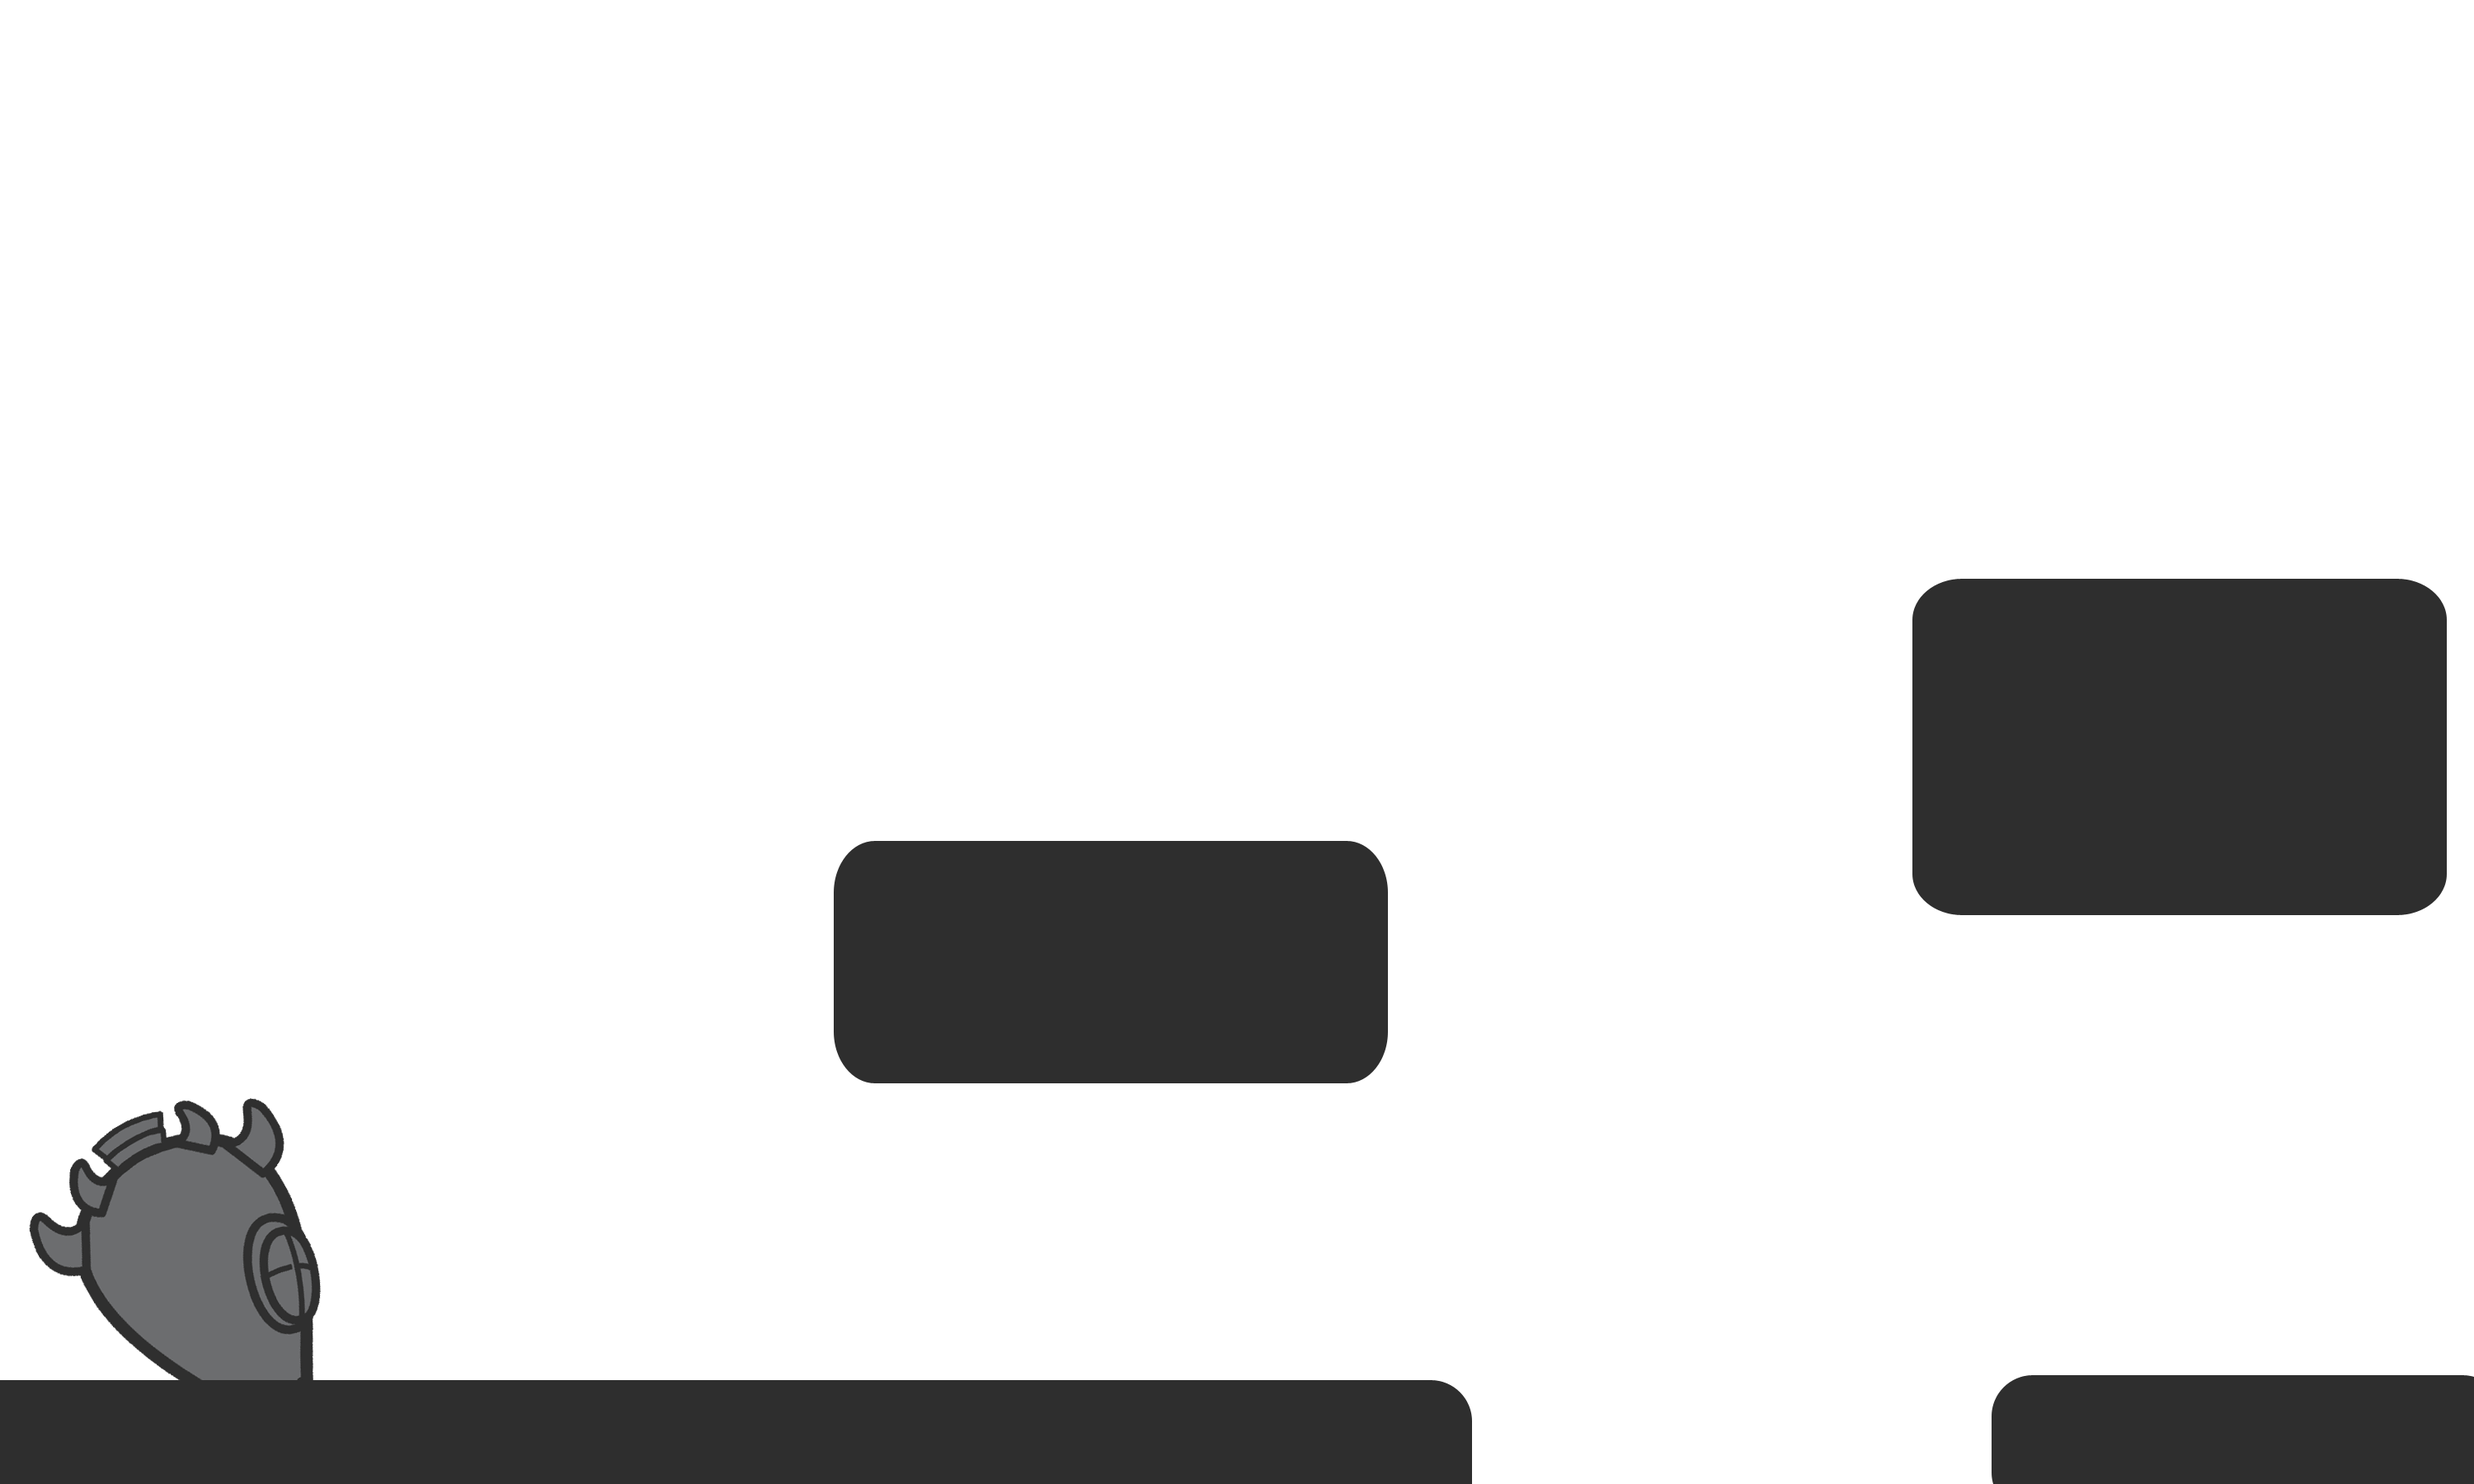
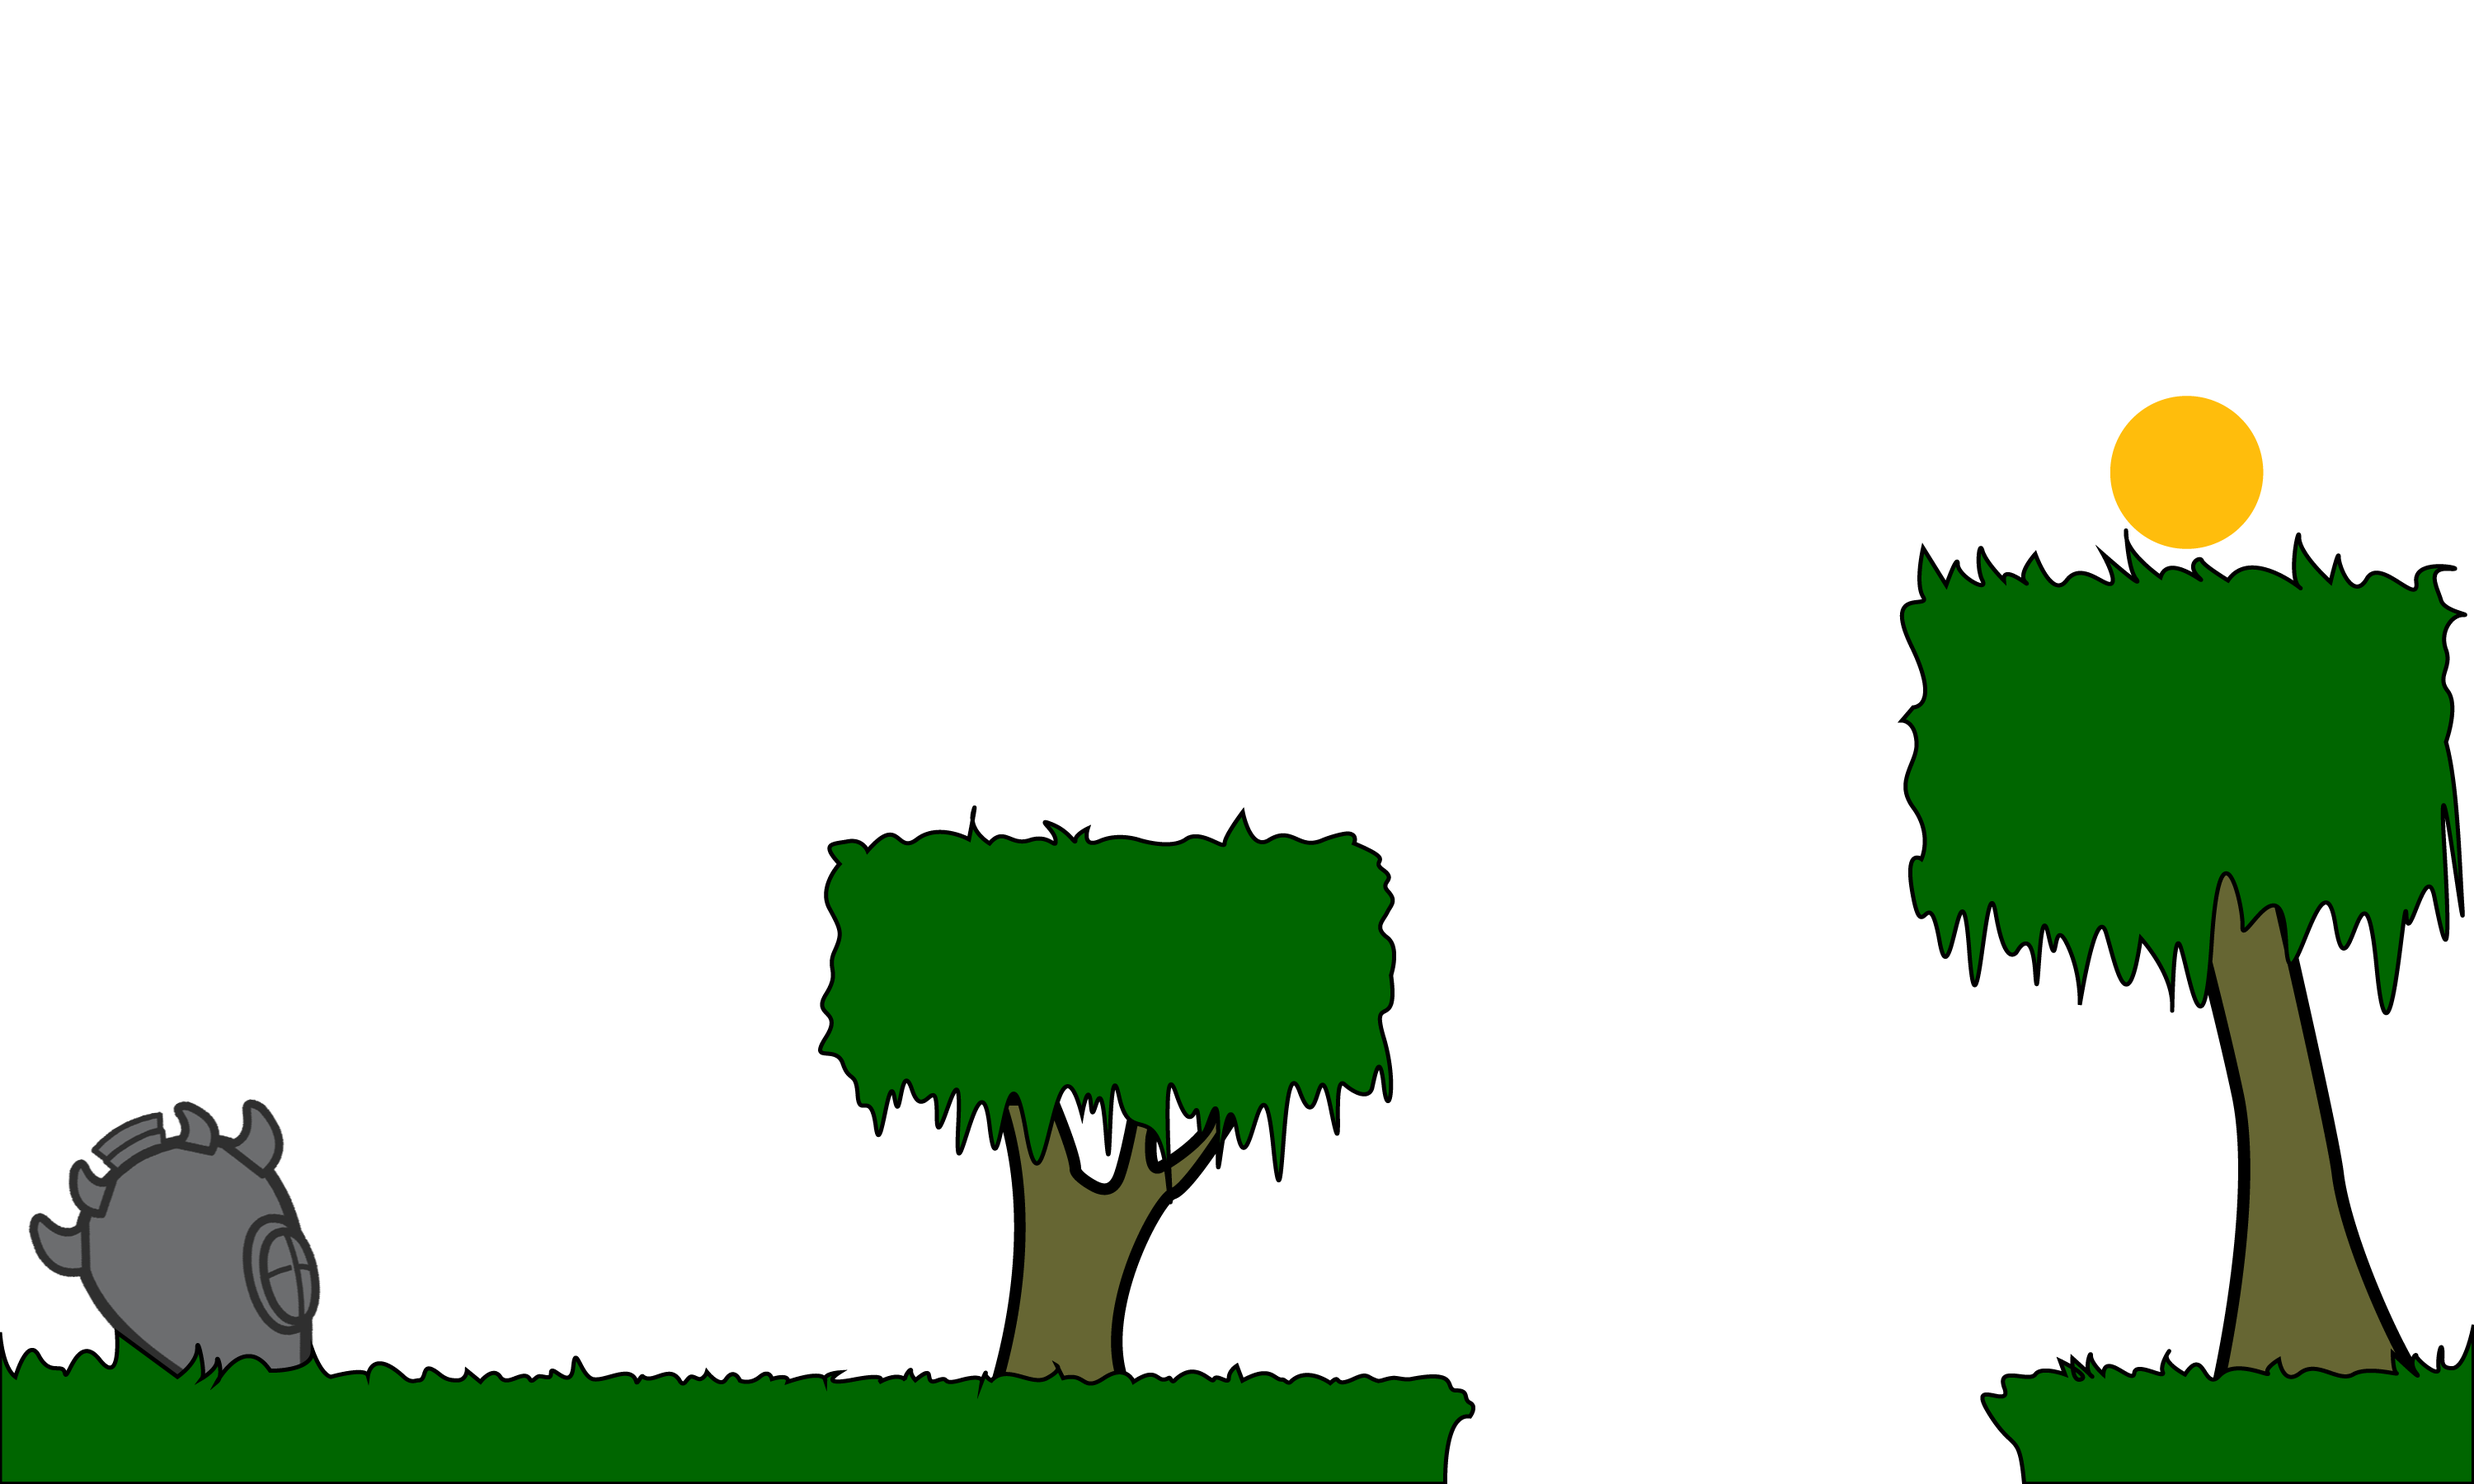
Working level 1
Physics, user input, map creations, instructions, win/loss all in place.

Changed region(s): [[0.0, 0.56, 0.62, 1.0], [0.744, 0.2489, 1.0, 1.0], [0.062, 0.7467, 0.093, 0.7778]]

diff --git a/js/functions.js b/js/functions.js
@@ -1,15 +1,25 @@
+//****************************************************************************************//
+//  Input control   //
+//****************************************************************************************//
+
+//  Create an array to hold keycodes
 var map = {68: false, 65: false, 87: false};
+
+//  Set down keys to true;
 $(document).keydown(function(e) {
     if (e.keyCode in map) {
         map[e.keyCode] = true;
         userInput = false;
-    }
+    } //  Reset keys on keyUp.
 }).keyup(function(e) {
     if (e.keyCode in map) {
         map[e.keyCode] = false;
     }
 });
 
+//****************************************************************************************//
+//  Movement functions   //
+//****************************************************************************************//
 
 
  function horizontal(speed){
@@ -21,30 +31,32 @@ $(document).keydown(function(e) {
             // If the map is past the left edge, move the map to the left edge, and move the player instead.
             if(backPositionX > 0){
                 backPositionX = 0;
-                movePlayer(speed);
+                movePlayer('horizontal',speed);
             }
             // If the map is past the right edge, move the map to the right edge, and move the player instead.
             if(backPositionX < screenWidth - backWidth){
                 backPositionX = screenWidth - backWidth;
-                playerPositionX -= speed;
+                movePlayer('horizontal',speed);
             }
         //  Otherwise, move the player.
         } else{
             movePlayer('horizontal',speed);
         }
+    } else{
+        movePlayer('horizontal',speed);
     }
     updated = true;
  }
 
  function movePlayer(direction,speed){
     if (direction == 'horizontal'){
-        //  If the player is not past the left efge and not past the right edge, move the player.
+        //  If the player is not past the left edge and not past the right edge, move the player.
         if (playerPositionX >= 0 && playerPositionX <= screenWidth - 60){
             playerPositionX -= speed;
         }
     }
      if (direction == 'vertical'){
-        //  If the player is not past the left efge and not past the right edge, move the player.
+        //  If the player is not past the left edge and not past the right edge, move the player.
         if (playerPositionY >= 0 && playerPositionY <= screenHeight){
             playerPositionY -= speed;
 
@@ -63,6 +75,7 @@ $(document).keydown(function(e) {
  function collisionTest(identifier){
     //  Reset collision to default false.
     collision = false;
+    collisionTop = false;
     //  Iterate through platforms, setting their values to be used for collisionTesting
     for(i = 0; i < obstacleNumber; i++){
         xVal=platforms[i].xVal;
@@ -76,6 +89,10 @@ $(document).keydown(function(e) {
         //  Test for collisions. If true, set collision to true.
         if (playerPositionY >= yVal-2 && playerPositionY <= yVal2 + 60 && overallPositionX >= xVal - 60 && overallPositionX <= xVal2){
             collision = true;
+            //Check to see if the collision is with the top border.
+            if (playerPositionY - 60 < yVal){
+                collisionTop = true;
+            }
             //  If collided platform is the goal, win the game.
             if (platforms[i].type=="goal"){
                 alert('TaDa!');
@@ -84,17 +101,83 @@ $(document).keydown(function(e) {
         }
 
     }
-    //  If there is no collision, gravity sets in.
-    if (collision == false){
+
+    if (playerPositionY > screenHeight){
+        alert('Womp Womp Womp');
+        window.location="index.html";
+    }
+
+    //  If there is no collision with the top border, gravity sets in.
+    if (collisionTop == false && jumping == 0){
         gravity();
+    } 
+    //  Otherwise, reset gravityVal
+    else{
+        gravityVal = 1;
     }
  }
 
+//****************************************************************************************//
+//  Physics   //
+//****************************************************************************************//
+
+
  function gravity(){
-    playerPositionY++;
+    //  Gravitational acceleration
+    gravityVal += gravityChange;
+    //  Gravity acts on player.
+    playerPositionY += gravityVal;
     updated = true;
  }
 
  function jump(){
-    movePlayer('vertical',3);
+    //  If there's a jump in progress, the player goes up.
+    if (jumping != 0){
+    // Put player in front of front layer.
+    $('.front').css('z-index',0);
+    movePlayer('vertical',jumpVal); 
+    jumping++; 
+        //  Reset jump variable when the jump is finished.
+        if (jumping == jumpLength){
+            jumping = 0;
+        }     
+        updated = true
+    } else{
+        //  Put player behind front layer if landed.
+        if (collisionTop == true){
+            $('.front').css('z-index',5);
+        }
+    }
  }
+
+//****************************************************************************************//
+//  Instructions   //
+//****************************************************************************************//
+
+
+function instructions(){
+    if (instructionNumber == 0 && level == 1){
+        $('#instructions').delay(500).fadeIn(500);
+        instructionNumber++
+    }
+
+    if (map[68] == true || map[65] == true){
+        if (level == 1 && instructionNumber == 1){
+            changeInstruction('<h1>Use <span class="key">W</span> to jump onto platforms.</h1>');
+        }    
+    }
+    if (map[87] == true){
+        if (level == 1 && instructionNumber == 2){
+            changeInstruction('<h1>Move to the <img src="imgs/goal.png" id="goalText"/> to complete the level.</h1>');
+            $("#instructions").delay(3000).fadeOut(1000);
+        }    
+    }
+}
+
+function changeInstruction(message){
+            $('#instructions').delay(500).fadeOut(500).delay(500).fadeIn(500);
+            window.setTimeout(function () {
+                $("#instructions").html(message);
+            }, 1000);
+            instructionNumber ++;
+}

diff --git a/js/setup.js b/js/setup.js
@@ -8,11 +8,11 @@ var obstacleNumber = 0;
 
 i = 0;
 
-//	Positioning vars
+
 $(function(){
+	//	Positioning vars
 	backPositionX = 0;
 	backPositionY = 0;
-
 
 	playerPositionX = 300;
 	playerPositionY = 560;
@@ -22,9 +22,21 @@ $(function(){
 	userInput = false;
 	updated = true;
 
-	backWidth = $("#currentBG").width();
+	backWidth = $(".currentBG").width();
 	screenWidth = $("#screen").width();
 	screenHeight = $("#screen").height();
+
+	//	Character status vars
+	playerSpeed = 3;
+
+	jumping = 0;
+	jumpVal = 5;
+	jumpLength = 60;
+
+	collision = false;
+	collisionTop = false;
+	gravityVal = 1;
+	gravityChange = .3;
 });
 
 //****************************************************************************************//
@@ -58,15 +70,16 @@ function createObject(i,xVal,yVal,widthVal,heightVal,type){
     defineProperty(platforms[i], 'heightVal',heightVal);
     defineProperty(platforms[i], 'type', type);
 
+    obstacleNumber++;
+
+  /* Outlines objects for level creation and testing.
   input = document.createElement('div');
   	input.style.top = platforms[i].yVal + 'px';
   	input.style.left = platforms[i].xVal + 'px';
   	input.style.width = platforms[i].widthVal + 'px';
   	input.style.height = platforms[i].heightVal + 'px';	
     input.className = platforms[i].type;
-    document.getElementById('background').appendChild(input);
-    obstacleNumber++;
-
+    document.getElementById('background').appendChild(input);*/
 }
 
 //	Send platform data to functions on load.
@@ -80,5 +93,8 @@ $(function() {
     i++;
 	createObject(i,773,233,212,133,'platform');
     i++;
-	createObject(i,800,175,40,40,'goal');
+	createObject(i,853,160,60,60,'goal');
 });
+
+level=1;
+instructionNumber = 0;

diff --git a/styles.css b/styles.css
@@ -12,11 +12,48 @@
 	position:absolute;
 }
 
+.front{
+	z-index: 5;
+}
+
+.back{
+	z-index: 0
+}
+
+#instructions{
+	z-index:6;
+	position: absolute;
+	top:50px;
+	left:50px;
+	width:500px;
+	display:none;
+}
+
+.key{
+	padding:5px;
+	padding-left:10px;
+	padding-right:10px;
+	background:#ccc;
+	border: 2px solid #000;
+	border-bottom: 4px solid #000;
+	border-top:1px solid #000;
+	border-radius: 5px;
+	-moz-border-radius:5px;
+	-webkit-border-radius:5px;
+	-o-border-radius:5px;
+}
+
+#goalText{
+	height:30px;
+	width:30px;
+}
+
 #player{
 	position:absolute;
 	width:60px;
 	height:60px;
 	background:#000;
+	z-index:1;
 }
 
 .platform{

diff --git a/js/loop.js b/js/loop.js
@@ -1,15 +1,19 @@
 //  Update 
     function updateGame(){
         collisionTest();
+        jump();
+        instructions();
         if (userInput != true){
             if (map[68]){
-                horizontal(-3);
+                horizontal(-playerSpeed);
             }
             if (map[65]){
-                horizontal(3);
+                horizontal(playerSpeed);
             }
             if (map[87]){
-                jump();
+                if (collisionTop == true && jumping == 0){
+                    jumping = 1;
+                }
             }
         }
     }

diff --git a/index.html b/index.html
@@ -13,7 +13,11 @@
 	<body>
 		<div id="screen">
 			<div id="background"/>
-				<img src="imgs/map1.png" id="currentBG"/>
+				<img src="imgs/map1_back.png" class="currentBG back"/>
+				<img src="imgs/map1_front.png" class="currentBG front"/>				
+			</div>
+			<div id="instructions">
+				<h1>Use <span class="key">A</span> and <span class="key">D</span> to move around.</h1>
 			</div>
 			<div id="player">&nbsp;</div>
 		</div>
